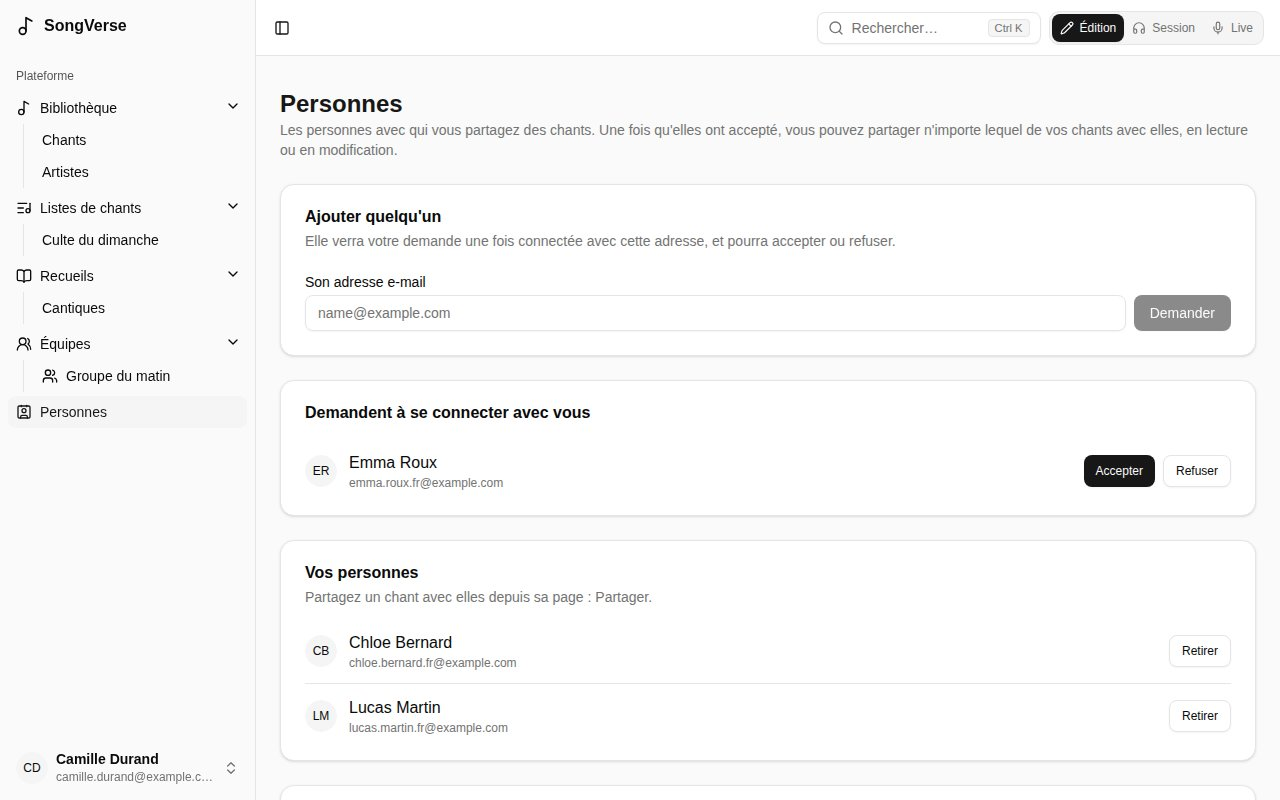
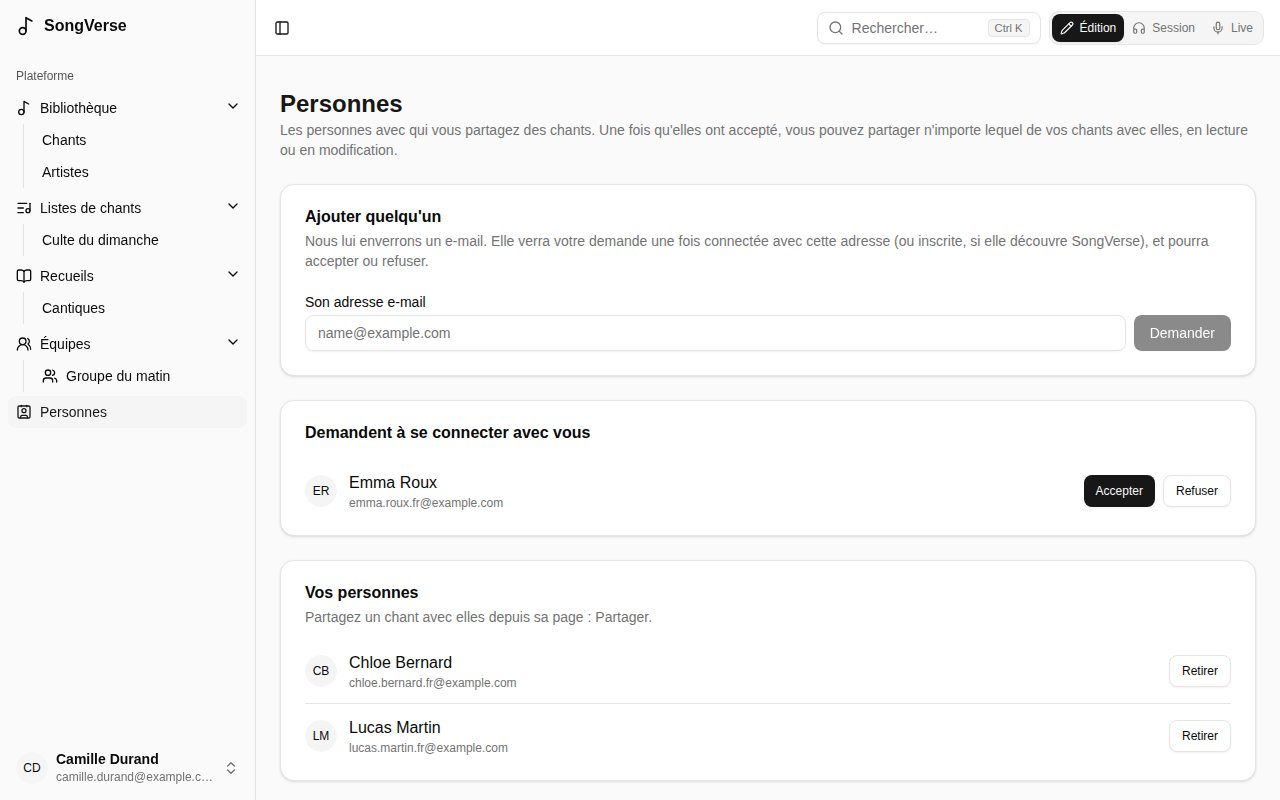
Files for the people a song is shared with; an email on a request to connect
A file's "Who sees it" gains "The people I share it with" (SHARED): its
uploader and the people the song is shared with see it. Who shares the
song (its owner, or its team's admins) chooses it; not on a catalogue
song. Publishing or folding a song turns such files back to their
uploader's only, as its sharing ends.

Asking someone to connect now emails them - the same email with or
without an account, so it doubles as an invitation and still doesn't
tell whether the address has one. Asking again sends nothing, and
one person can ask up to 20 new people a day.

Docs (en/fr): People and Who sees a file; People screenshots retaken.
e2e: api/people-followups (19 checks), a step in web/people.

Closes #79

Claude-Session: https://claude.ai/code/session_01XvbKp5w1xAahmXxF5Cbbw1

diff --git a/apps/api/src/attachments/attachments.service.ts b/apps/api/src/attachments/attachments.service.ts
@@ -20,14 +20,20 @@ export class AttachmentsService {
   ) {}
 
   /**
-   * The files `viewer` sees (issue #72): their own, the song's (SONG), and
-   * their teams' (TEAM); a global admin sees them all. Seeing the song
+   * The files `viewer` sees (issue #72): their own, the song's (SONG),
+   * their teams' (TEAM), and those for the people the song is shared with
+   * when it's shared with them (SHARED, #79); a global admin sees them all. Seeing the song
    * itself is checked separately.
    */
   static visibleWhere(viewer: Viewer, teamIds: string[]): Prisma.AttachmentWhereInput {
     if (viewer.isGlobalAdmin) return {};
     return {
-      OR: [{ visibility: "SONG" }, { uploadedByUserId: viewer.id }, { visibility: "TEAM", visibleToTeamId: { in: teamIds } }],
+      OR: [
+        { visibility: "SONG" },
+        { uploadedByUserId: viewer.id },
+        { visibility: "TEAM", visibleToTeamId: { in: teamIds } },
+        { visibility: "SHARED", songVersion: { accessGrants: { some: { grantedToUserId: viewer.id } } } },
+      ],
     };
   }
 
@@ -44,8 +50,9 @@ export class AttachmentsService {
 
   /**
    * A file on the song, for its uploader. Anyone who can see the song may
-   * add their own (PRIVATE, or for a team of theirs); only who can edit
-   * the song may show one to everyone who sees it (SONG).
+   * add their own (PRIVATE, or for a team of theirs); only who manages
+   * the song may show one to everyone who sees it (SONG) or to the people
+   * it's shared with (SHARED).
    */
   async upload(
     viewer: Viewer,
@@ -59,8 +66,9 @@ export class AttachmentsService {
     teamId: string | null = null,
   ) {
     if (stemPart && type !== "AUDIO") throw new BadRequestException("Only audio files can be stems");
-    const canEditSong = await this.canEditSong(viewer, songVersionId);
-    const audience = await this.audience(viewer, canEditSong, visibility, teamId);
+    const song = await this.songRights(viewer, songVersionId);
+    const canEditSong = song.canEditSong;
+    const audience = await this.audience(viewer, song, visibility, teamId);
     await this.quota.assertCanStore(viewer.id, body.length);
     const { hash, sizeBytes } = await this.storage.put(body, mimeType);
     const row = await this.prisma.client.attachment.create({
@@ -99,7 +107,7 @@ export class AttachmentsService {
     if (Object.keys(data).length > 0 && !rights.canChange) throw new ForbiddenException("Only its uploader or the song's editors can change this file");
     if (change.visibility !== undefined) {
       if (!rights.canChangeVisibility) throw new ForbiddenException("Only its uploader decides who sees this file");
-      Object.assign(data, await this.audience(viewer, canEditSong, change.visibility, change.teamId ?? null));
+      Object.assign(data, await this.audience(viewer, await this.songRights(viewer, songVersionId), change.visibility, change.teamId ?? null));
     }
     const row = await this.prisma.client.attachment.update({ where: { id: attachment.id }, data, include: ATTACHMENT_INCLUDE });
     return present(row, viewer, canEditSong);
@@ -134,22 +142,30 @@ export class AttachmentsService {
   }
 
   private async canEditSong(viewer: Viewer, songVersionId: string): Promise<boolean> {
+    return (await this.songRights(viewer, songVersionId)).canEditSong;
+  }
+
+  private async songRights(viewer: Viewer, songVersionId: string) {
     const song = await this.prisma.client.songVersion.findUnique({
       where: { id: songVersionId },
       select: { ownerScope: true, ownerUserId: true, ownerTeamId: true },
     });
     if (!song) throw new NotFoundException("Song version not found");
-    return this.access.canEdit(viewer, song);
+    return { canEditSong: await this.access.canEdit(viewer, song), isGlobal: song.ownerScope === "GLOBAL" };
   }
 
   /** Checks who a file may be shown to, as the columns that say so. */
   private async audience(
     viewer: Viewer,
-    canEditSong: boolean,
+    { canEditSong, isGlobal }: { canEditSong: boolean; isGlobal: boolean },
     visibility: AttachmentVisibilityValue,
     teamId: string | null,
   ): Promise<{ visibility: AttachmentVisibilityValue; visibleToTeamId: string | null }> {
     if (visibility === "SONG" && !canEditSong) throw new ForbiddenException("Only who can edit the song can show a file to everyone who sees it");
+    if (visibility === "SHARED") {
+      if (!canEditSong) throw new ForbiddenException("Only who shares the song can show a file to the people it's shared with");
+      if (isGlobal) throw new BadRequestException("A catalogue song isn't shared with anyone: everyone sees it");
+    }
     if (visibility !== "TEAM") return { visibility, visibleToTeamId: null };
     if (!teamId) throw new BadRequestException("Choose the team that sees it");
     if (!viewer.isGlobalAdmin && !(await this.access.teamRole(viewer.id, teamId))) throw new ForbiddenException("Not a member of that team");

diff --git a/apps/web/src/components/song-editor/song-tabs.tsx b/apps/web/src/components/song-editor/song-tabs.tsx
@@ -43,19 +43,21 @@ export function SaveFirst() {
 
 const FILE_TYPES: AttachmentType[] = ["PDF", "CHORDPRO", "MUSICXML", "ABC_NOTATION", "TEXT", "IMAGE", "OTHER"];
 
-/** A file's audience as one select value: "PRIVATE", "SONG" or "TEAM:<id>". */
+/** A file's audience as one select value: "PRIVATE", "SONG", "SHARED" or "TEAM:<id>". */
 const audienceValue = (audience: AttachmentAudience) => (audience.visibility === "TEAM" ? `TEAM:${audience.teamId}` : audience.visibility);
 const audienceOf = (value: string): AttachmentAudience =>
-  value.startsWith("TEAM:") ? { visibility: "TEAM", teamId: value.slice(5) } : { visibility: value as "PRIVATE" | "SONG" };
+  value.startsWith("TEAM:") ? { visibility: "TEAM", teamId: value.slice(5) } : { visibility: value as "PRIVATE" | "SONG" | "SHARED" };
 
 /**
- * Who sees a file (issue #72): only me, one of my teams, or everyone who
- * can see the song (for the song's editors).
+ * Who sees a file (issue #72): only me, one of my teams, everyone who can
+ * see the song, or the people it's shared with (#79) - those two for who
+ * manages the song.
  */
 function AudienceSelect({
   value,
   teams,
   canShowToSong,
+  canShowToShared,
   disabled,
   label,
   onChange,
@@ -63,6 +65,7 @@ function AudienceSelect({
   value: AttachmentAudience;
   teams: TeamSummary[];
   canShowToSong: boolean;
+  canShowToShared: boolean;
   disabled?: boolean;
   label: string;
   onChange: (audience: AttachmentAudience) => void;
@@ -79,6 +82,7 @@ function AudienceSelect({
         </option>
       ))}
       {listed ? <option value={audienceValue(value)}>{t("fileVisibility.team", { team: "…" })}</option> : null}
+      {canShowToShared || value.visibility === "SHARED" ? <option value="SHARED">{t("fileVisibility.shared")}</option> : null}
       {canShowToSong || value.visibility === "SONG" ? <option value="SONG">{t("fileVisibility.song")}</option> : null}
     </NativeSelect>
   );
@@ -89,6 +93,7 @@ function audienceText(attachment: Attachment, t: (key: string, options?: Record<
   const by = attachment.uploadedBy?.displayName;
   if (attachment.visibility === "TEAM") return t(by ? "fileVisibility.sharedByWithTeam" : "fileVisibility.sharedWithTeam", { name: by, team: attachment.visibleToTeam?.name ?? "" });
   if (attachment.visibility === "PRIVATE") return t("fileVisibility.privateOf", { name: by ?? "" });
+  if (attachment.visibility === "SHARED") return by ? t("fileVisibility.sharedByWithPeople", { name: by }) : t("fileVisibility.sharedWithPeople");
   return by ? t("fileVisibility.addedBy", { name: by }) : "";
 }
 
@@ -246,6 +251,7 @@ export function AttachmentsTab({
   songVersionId,
   attachments,
   canEdit,
+  canShare = false,
   songKey = "",
   songTempo = "",
 }: {
@@ -254,6 +260,8 @@ export function AttachmentsTab({
   attachments: Attachment[];
   /** Can edit the song: can show files to everyone who sees it. Anyone who sees it adds their own. */
   canEdit: boolean;
+  /** Can show files to the people the song is shared with (#79): who manages a personal or team song. */
+  canShare?: boolean;
   /** The song's own, which a recording's key and tempo default to (#65). */
   songKey?: string;
   songTempo?: string;
@@ -424,6 +432,7 @@ export function AttachmentsTab({
                           value={{ visibility: attachment.visibility, teamId: attachment.visibleToTeamId }}
                           teams={teams}
                           canShowToSong={canEdit}
+                          canShowToShared={canShare}
                           disabled={busyId !== null}
                           label={t("fileVisibility.labelFor", { name: attachment.filename })}
                           onChange={(next) => void update([attachment], { visibility: next.visibility, teamId: next.teamId ?? null })}
@@ -550,6 +559,7 @@ export function AttachmentsTab({
                   value={audience}
                   teams={teams}
                   canShowToSong={canEdit}
+                  canShowToShared={canShare}
                   label={t("fileVisibility.forNew")}
                   onChange={setAudience}
                 />

diff --git a/apps/api/src/people/people.service.ts b/apps/api/src/people/people.service.ts
@@ -1,8 +1,12 @@
-import { BadRequestException, ForbiddenException, Injectable, NotFoundException } from "@nestjs/common";
+import { BadRequestException, ForbiddenException, HttpException, HttpStatus, Injectable, Logger, NotFoundException } from "@nestjs/common";
 import type { Prisma } from "@songverse/db";
 import { AccessPolicyService } from "../access/access-policy.service";
+import { sendConnectionRequestEmail } from "../auth/email";
 import type { AuthenticatedUser } from "../common/types/authenticated-request";
 import { PrismaService } from "../prisma/prisma.service";
+
+/** New requests one person may send in a day, each an email (#79). */
+export const DAILY_REQUESTS = 20;
 
 const PERSON = { id: true, displayName: true, email: true, avatarUrl: true } satisfies Prisma.UserSelect;
 
@@ -15,6 +19,8 @@ const PERSON = { id: true, displayName: true, email: true, avatarUrl: true } sat
  */
 @Injectable()
 export class PeopleService {
+  private readonly logger = new Logger(PeopleService.name);
+
   constructor(
     private readonly prisma: PrismaService,
     private readonly access: AccessPolicyService,
@@ -94,13 +100,32 @@ export class PeopleService {
       await this.prisma.client.connection.update({ where: { id: theirs.id }, data: { status: "ACCEPTED", addresseeId: user.id, respondedAt: new Date() } });
       return { connected: true };
     }
-    // Already connected, or already asked (a declined request stays as it is).
-    await this.prisma.client.connection.upsert({
+    // Already connected, or already asked (a declined request stays as it is): no second email.
+    const asked = await this.prisma.client.connection.findUnique({
       where: { requesterId_addresseeEmail: { requesterId: user.id, addresseeEmail: email } },
-      create: { requesterId: user.id, addresseeEmail: email },
-      update: {},
+      select: { id: true },
     });
+    if (asked) return { connected: false };
+    const today = await this.prisma.client.connection.count({ where: { requesterId: user.id, createdAt: { gte: new Date(Date.now() - 24 * 3600 * 1000) } } });
+    if (today >= DAILY_REQUESTS) throw new HttpException(`You can ask up to ${DAILY_REQUESTS} people a day. Try again tomorrow.`, HttpStatus.TOO_MANY_REQUESTS);
+    try {
+      await this.prisma.client.connection.create({ data: { requesterId: user.id, addresseeEmail: email } });
+    } catch {
+      return { connected: false }; // asked twice at once: the first one emails
+    }
+    await this.notify(user.id, email);
     return { connected: false };
+  }
+
+  /** Emails the address a request went to; a failure to send doesn't undo the request. */
+  private async notify(requesterId: string, email: string) {
+    const requester = await this.prisma.client.user.findUniqueOrThrow({ where: { id: requesterId }, select: { displayName: true } });
+    const web = process.env.WEB_URL ?? "http://localhost:3000";
+    try {
+      await sendConnectionRequestEmail(email, requester.displayName, `${web.replace(/\/$/, "")}/people`);
+    } catch (err) {
+      this.logger.warn(`Couldn't email a request to connect: ${err instanceof Error ? err.message : String(err)}`);
+    }
   }
 
   async answer(user: AuthenticatedUser, id: string, accept: boolean) {

diff --git a/apps/api/src/auth/email.ts b/apps/api/src/auth/email.ts
@@ -10,8 +10,9 @@ import { getEffectiveAuthSettings } from "./auth-settings";
  * still work without needing a real Resend account. This is the only
  * place SongVerse sends email - keep it that way, since Resend's free tier
  * has a low daily/monthly send cap and this app should only ever send
- * account mail (verification, password reset, email change), never bulk or
- * marketing mail.
+ * account mail (verification, password reset, email change) and a person's
+ * request to connect (#79, limited per requester in PeopleService), never
+ * bulk or marketing mail.
  */
 async function sendEmail(params: { to: string; subject: string; html: string; text: string }): Promise<void> {
   const settings = await getEffectiveAuthSettings();
@@ -86,6 +87,25 @@ export async function sendPasswordResetEmail(to: string, url: string): Promise<v
       <p>Someone requested a password reset for your SongVerse account.</p>
       <p><a href="${url}">Reset password</a></p>
       <p style="color:#666;font-size:13px">If you didn't request this, you can ignore this email - your password won't change.</p>
+    `,
+  });
+}
+
+/**
+ * Someone asks to connect (issue #79). The same email whether the address
+ * has an account or not: without one, it's an invitation - signing up with
+ * this address finds the request waiting in People.
+ */
+export async function sendConnectionRequestEmail(to: string, from: string, url: string): Promise<void> {
+  await sendEmail({
+    to,
+    subject: `${from} would like to share songs with you on SongVerse`,
+    text: `${from} would like to share songs with you on SongVerse. To say yes (or no), sign in - or sign up with this address - and open People:\n\n${url}\n\nIf you don't know them, you can ignore this email.`,
+    html: `
+      <p><strong>${escapeHtml(from)}</strong> would like to share songs with you on SongVerse.</p>
+      <p>To say yes (or no), sign in - or sign up with this address - and open People.</p>
+      <p><a href="${url}">Open People</a></p>
+      <p style="color:#666;font-size:13px">If you don't know them, you can ignore this email.</p>
     `,
   });
 }

diff --git a/packages/core/src/i18n/locales/fr.ts b/packages/core/src/i18n/locales/fr.ts
@@ -1127,10 +1127,10 @@ const fr: typeof en = {
     title: "Personnes",
     description: "Les personnes avec qui vous partagez des chants. Une fois qu'elles ont accepté, vous pouvez partager n'importe lequel de vos chants avec elles, en lecture ou en modification.",
     addTitle: "Ajouter quelqu'un",
-    addDescription: "Elle verra votre demande une fois connectée avec cette adresse, et pourra accepter ou refuser.",
+    addDescription: "Nous lui enverrons un e-mail. Elle verra votre demande une fois connectée avec cette adresse (ou inscrite, si elle découvre SongVerse), et pourra accepter ou refuser.",
     email: "Son adresse e-mail",
     ask: "Demander",
-    asked: "Demande envoyée. Elle la verra en se connectant.",
+    asked: "Demande envoyée. Nous lui avons écrit ; elle la verra en se connectant.",
     connected: "Elle vous l'avait déjà demandé : vous êtes connectés.",
     incomingTitle: "Demandent à se connecter avec vous",
     accept: "Accepter",
@@ -1170,6 +1170,9 @@ const fr: typeof en = {
     private: "Moi seulement",
     team: "{{team}} (équipe)",
     song: "Tous ceux qui voient ce chant",
+    shared: "Les personnes avec qui je le partage",
+    sharedWithPeople: "Partagé avec les personnes avec qui ce chant est partagé",
+    sharedByWithPeople: "Partagé par {{name}} avec les personnes avec qui ce chant est partagé",
     addedBy: "Ajouté par {{name}}",
     privateOf: "Seul·e {{name}} le voit",
     sharedWithTeam: "Partagé avec {{team}}",

diff --git a/apps/api/src/publishing/publishing.service.ts b/apps/api/src/publishing/publishing.service.ts
@@ -477,10 +477,10 @@ async function promoteToGlobal(tx: Tx, songVersionId: string, trustLabel: string
     select: { ownerScope: true, ownerUserId: true, ownerTeamId: true },
   });
   if (song.ownerScope === "TEAM" && song.ownerTeamId) {
-    await tx.attachment.updateMany({ where: { songVersionId, visibility: "SONG" }, data: { visibility: "TEAM", visibleToTeamId: song.ownerTeamId } });
+    await tx.attachment.updateMany({ where: { songVersionId, visibility: { in: ["SONG", "SHARED"] } }, data: { visibility: "TEAM", visibleToTeamId: song.ownerTeamId } });
   } else {
-    await tx.attachment.updateMany({ where: { songVersionId, visibility: "SONG", uploadedByUserId: null }, data: { uploadedByUserId: song.ownerUserId } });
-    await tx.attachment.updateMany({ where: { songVersionId, visibility: "SONG" }, data: { visibility: "PRIVATE" } });
+    await tx.attachment.updateMany({ where: { songVersionId, visibility: { in: ["SONG", "SHARED"] }, uploadedByUserId: null }, data: { uploadedByUserId: song.ownerUserId } });
+    await tx.attachment.updateMany({ where: { songVersionId, visibility: { in: ["SONG", "SHARED"] } }, data: { visibility: "PRIVATE" } });
   }
   await tx.songOwnershipRequest.updateMany({ where: { songVersionId, status: "PENDING" }, data: { status: "DECLINED", decidedAt: new Date() } });
   // Everyone sees it now: sharing it with someone (#77) means nothing more.

diff --git a/apps/web/src/components/song-editor/song-editor.tsx b/apps/web/src/components/song-editor/song-editor.tsx
@@ -638,10 +638,10 @@ export function SongEditor(props: (CreateProps | EditProps) & { tags: Tag[]; tab
         </TabsContent>
         <TabsContent value="arrangements">{edit ? <ArrangementsTab songVersionId={edit.version.id} /> : <SaveFirst />}</TabsContent>
         <TabsContent value="files">
-          {edit ? <AttachmentsTab kind="files" songVersionId={edit.version.id} attachments={attachments} canEdit={canManage} /> : <SaveFirst />}
+          {edit ? <AttachmentsTab kind="files" songVersionId={edit.version.id} attachments={attachments} canEdit={canManage} canShare={canManage && edit.version.ownerScope !== "GLOBAL"} /> : <SaveFirst />}
         </TabsContent>
         <TabsContent value="audio">
-          {edit ? <AttachmentsTab kind="audio" songVersionId={edit.version.id} attachments={attachments} canEdit={canManage} songKey={form.key} songTempo={form.tempo} /> : <SaveFirst />}
+          {edit ? <AttachmentsTab kind="audio" songVersionId={edit.version.id} attachments={attachments} canEdit={canManage} canShare={canManage && edit.version.ownerScope !== "GLOBAL"} songKey={form.key} songTempo={form.tempo} /> : <SaveFirst />}
         </TabsContent>
         <TabsContent value="links">{edit ? <LinksTab version={edit.version} workMatch={edit.workMatch} /> : <SaveFirst />}</TabsContent>
         <TabsContent value="history">

diff --git a/apps/api/src/publishing/song-fold.service.ts b/apps/api/src/publishing/song-fold.service.ts
@@ -162,10 +162,10 @@ export class SongFoldService implements OnApplicationBootstrap {
 
     // Files: still its owner's (or team's) only, as publishing does (#73).
     if (song.ownerScope === "TEAM" && song.ownerTeamId) {
-      await tx.attachment.updateMany({ where: { songVersionId: songId, visibility: "SONG" }, data: { visibility: "TEAM", visibleToTeamId: song.ownerTeamId } });
+      await tx.attachment.updateMany({ where: { songVersionId: songId, visibility: { in: ["SONG", "SHARED"] } }, data: { visibility: "TEAM", visibleToTeamId: song.ownerTeamId } });
     } else {
-      await tx.attachment.updateMany({ where: { songVersionId: songId, visibility: "SONG", uploadedByUserId: null }, data: { uploadedByUserId: song.ownerUserId } });
-      await tx.attachment.updateMany({ where: { songVersionId: songId, visibility: "SONG" }, data: { visibility: "PRIVATE" } });
+      await tx.attachment.updateMany({ where: { songVersionId: songId, visibility: { in: ["SONG", "SHARED"] }, uploadedByUserId: null }, data: { uploadedByUserId: song.ownerUserId } });
+      await tx.attachment.updateMany({ where: { songVersionId: songId, visibility: { in: ["SONG", "SHARED"] } }, data: { visibility: "PRIVATE" } });
     }
     await tx.attachment.updateMany({ where: { songVersionId: songId }, data: { songVersionId: targetId } });
 

diff --git a/packages/core/src/i18n/locales/en.ts b/packages/core/src/i18n/locales/en.ts
@@ -1124,10 +1124,10 @@ const en = {
     title: "People",
     description: "The people you share songs with. Once they've said yes, you can share any of your songs with them, to view or to edit.",
     addTitle: "Add someone",
-    addDescription: "They'll see your request once they're signed in with this address, and can say yes or no.",
+    addDescription: "We'll email them. They'll see your request once they're signed in with this address (or signed up, if they're new to SongVerse), and can say yes or no.",
     email: "Their email address",
     ask: "Ask",
-    asked: "Asked. They'll see your request when they sign in.",
+    asked: "Asked. We've emailed them; they'll see your request when they sign in.",
     connected: "They'd already asked you: you're connected.",
     incomingTitle: "Asking to connect with you",
     accept: "Accept",
@@ -1167,6 +1167,9 @@ const en = {
     private: "Only me",
     team: "{{team}} (team)",
     song: "Everyone who can see this song",
+    shared: "The people I share it with",
+    sharedWithPeople: "Shared with the people this song is shared with",
+    sharedByWithPeople: "Shared by {{name}} with the people this song is shared with",
     addedBy: "Added by {{name}}",
     privateOf: "Only {{name}} sees it",
     sharedWithTeam: "Shared with {{team}}",

diff --git a/apps/api/src/attachments/dto/upload-attachment.dto.ts b/apps/api/src/attachments/dto/upload-attachment.dto.ts
@@ -5,7 +5,7 @@ import { IsIn, IsNumber, IsOptional, IsString, Max, MaxLength, Min } from "class
 
 const ATTACHMENT_TYPES = ["PDF", "CHORDPRO", "MUSICXML", "ABC_NOTATION", "TEXT", "IMAGE", "AUDIO", "OTHER"] as const;
 export type AttachmentTypeValue = (typeof ATTACHMENT_TYPES)[number];
-export const ATTACHMENT_VISIBILITIES = ["PRIVATE", "TEAM", "SONG"] as const;
+export const ATTACHMENT_VISIBILITIES = ["PRIVATE", "TEAM", "SONG", "SHARED"] as const;
 export type AttachmentVisibilityValue = (typeof ATTACHMENT_VISIBILITIES)[number];
 
 export class UploadAttachmentDto {
@@ -23,7 +23,7 @@ export class UploadAttachmentDto {
   @ApiProperty({
     enum: ATTACHMENT_VISIBILITIES,
     required: false,
-    description: "Who sees it besides you: PRIVATE (nobody, the default), TEAM (teamId's members), SONG (everyone who sees the song; needs edit rights on it).",
+    description: "Who sees it besides you: PRIVATE (nobody, the default), TEAM (teamId's members), SONG (everyone who sees the song) and SHARED (the people the song is shared with) need to manage the song.",
   })
   @IsOptional()
   @Transform(({ value }) => (value === "" ? undefined : value))

diff --git a/apps/api/src/attachments/dto/attachment-response.dto.ts b/apps/api/src/attachments/dto/attachment-response.dto.ts
@@ -13,7 +13,7 @@ export class AttachmentResponseDto {
   @ApiProperty({ enum: STEM_PARTS, nullable: true }) stemPart!: StemPart | null;
   @ApiProperty({ nullable: true }) recordingKey!: string | null;
   @ApiProperty({ nullable: true }) recordingTempo!: number | null;
-  @ApiProperty({ enum: ["PRIVATE", "TEAM", "SONG"] }) visibility!: "PRIVATE" | "TEAM" | "SONG";
+  @ApiProperty({ enum: ["PRIVATE", "TEAM", "SONG", "SHARED"] }) visibility!: "PRIVATE" | "TEAM" | "SONG" | "SHARED";
   @ApiProperty({ nullable: true }) visibleToTeamId!: string | null;
   @ApiProperty({ nullable: true }) uploadedByUserId!: string | null;
   @ApiProperty({ description: "May change its part, key and tempo, or remove it." }) canChange!: boolean;

diff --git a/packages/core/src/api-client/index.ts b/packages/core/src/api-client/index.ts
@@ -581,7 +581,7 @@ export interface Attachment {
   createdAt: string;
 }
 
-export type AttachmentVisibility = "PRIVATE" | "TEAM" | "SONG";
+export type AttachmentVisibility = "PRIVATE" | "TEAM" | "SONG" | "SHARED";
 
 /** Who sees a file: `teamId` for TEAM. */
 export interface AttachmentAudience {
